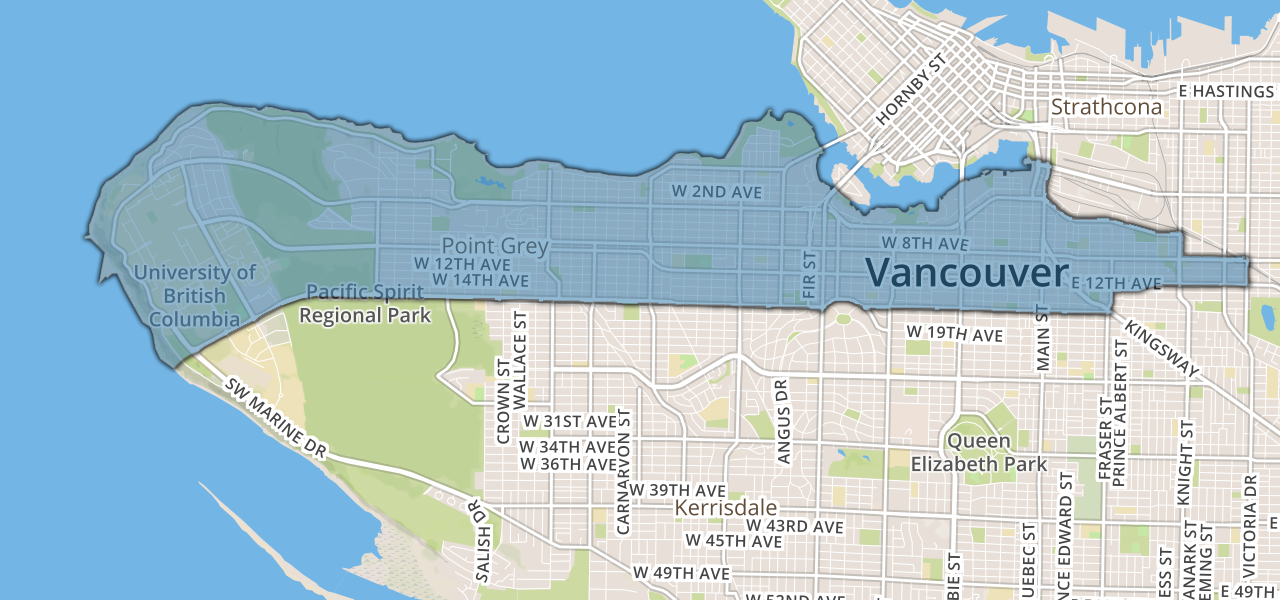
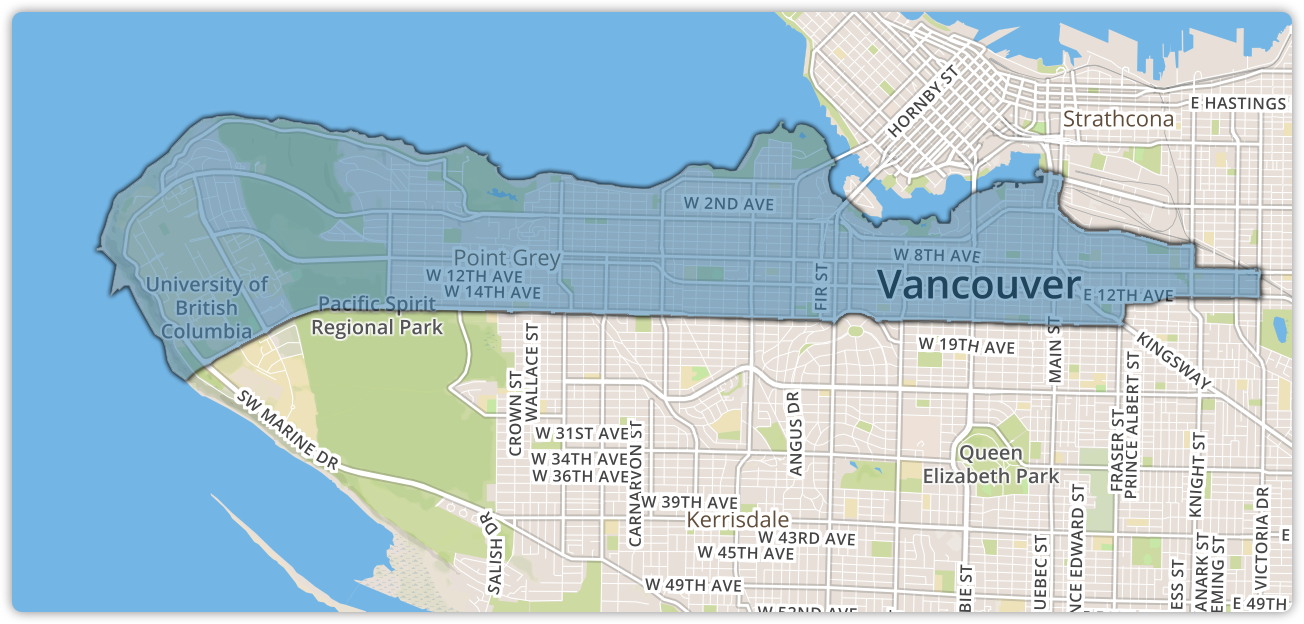
Finishing off main screen

diff --git a/index.html b/index.html
@@ -36,7 +36,7 @@
 			</header>
 
 			<section id="banner">
-				<h2>Everyday Ridesharing</h2>
+				<h2>Share your Commute</h2>
 				<h3>A social, fast, and affordable way to get around!</h3>
 
 				<div class="container">
@@ -59,129 +59,59 @@
 					<div class="box alt">
 						<div class="row 50% uniform">
 							<div class="4u 12u$(small)">
-							<header><h2>Enter Destination</h2></header>
-								<span class="image fit"><img src="images/enter-destination.png" alt="" /></span>
+							<header><h2>1. Enter Destination</h2></header>
+								<span class="image fit low-padded"><img src="images/enter-destination.png" alt="" /></span>
 							</div>
 							<div class="4u 12u$(small)">
-								<header><h2>Get Matched</h2></header>
-								<span class="image fit"><img src="images/get-matched.png" alt="" /></span>
+								<header><h2>2. Get Matched</h2></header>
+								<span class="image fit low-padded"><img src="images/get-matched.png" alt="" /></span>
 							</div>
 							<div class="4u$ 12u$(small)">
-								<header><h2>Go</h2></header>
-								<span class="image fit"><img src="images/go.png" alt="" /></span>
+								<header><h2>3. Go</h2></header>
+								<span class="image fit low-padded"><img src="images/go.png" alt="" /></span>
 							</div>
 						</div>
 					</div>
 				</div>
 			</section>
 
-			<section class="wrapper">
+			<section class="wrapper style1 dark special">
 				<div class="container">
-
 					<header class="major">
-						<h2>Available exclusively in the UBC-Broadway Corridor!</h2>
+						<h2>This is your Spare Zone!</h2>
 						<p>As long as you are going through the highlighted area below (UBC - Broadway Corridor) the service will be there when you need it!</p>
 					</header>
-					<span class="image fit"><img src="images/map-highlighted.png" alt="" /></span>
+					<span class="image fit"><img class="map" src="images/map-highlighted.png" alt="" /></span>
 
 				</div>
 			</section>
 
-			<section id="none" class="wrapper style2 dark special">
+			<section id="none" class="wrapper style2 special">
 				<div class="container">
 					<header class="major">
-						<h2>Meet people already using the service!</h2>
+						<h2>You may have heard about us...</h2>
 					</header>
-					<section class="profiles">
-						<div class="row">
-							<section class="4u 6u(medium) 12u$(xsmall) profile">
-								<img src="images/josh-pic.jpg" class="profile-pic" alt="" />
-								<h4>Josh Andrews</h4>
-								<p>UBC Computer Science graduate.  I'm passionate about transportation and the outdoors.</p>
-							</section>
-							<section class="4u 6u$(medium) 12u$(xsmall) profile">
-								<img src="images/kristoffer-pic.jpg" class="profile-pic" alt="" />
-								<h4>Kristoffer Vik Hansen</h4>
-								<p>UBC grad. I love the outdoors. Big skiing fan!</p>
-							</section>
-							<section class="4u 6u(medium) 12u$(xsmall) profile">
-								<img src="images/alexey-pic.jpg" class="profile-pic" alt="" />
-								<h4>Alexey Indeev</h4>
-								<p>Student trying to get places but always finding it hard.</p>
-							</section>
-						</div>
-					</section>
-				</div>
-			</section>
-		<!-- One -->
-		<section id="two" class="wrapper style1 special">
-				<div class="container">
-					<header class="major">
-						<h2>Looking For a Ride?</h2>
-						<p>Get there in three easy steps!</p>
-					</header>
-					<div class="row 150%">
-						<div class="4u 12u$(medium)">
-							<section class="box">
-								<i class="icon big rounded color1 fa-mobile"></i>
-								<h3>Text Us</h3>
-								<p>Text us at (604) 449-8560. Just specify where you are and where you will be going.</p>
-							</section>
-						</div>
-						<div class="4u 12u$(medium)">
-							<section class="box">
-								<i class="icon big rounded color9 fa-globe"></i>
-								<h3>Get Driver Location</h3>
-								<p>Within seconds our service will reply with a Driver and when he or she will arrive.  Just stay put!</p>
-							</section>
-						</div>
-						<div class="4u$ 12u$(medium)">
-							<section class="box">
-								<i class="icon big rounded color6 fa-car"></i>
-								<h3>Pick Up/Drop off</h3>
-								<p>Once our driver arrives, he or she will take you directly to your destination.  Payments will happen immediately after the ride.</p>
-							</section>
-						</div>
-					</div>
-				</div>
-			</section>
 
-			<section id="one" class="wrapper dark special">
-				<div class="container">
-					<header class="major">
-						<h2>Driving?</h2>
-						<p>Get paid in three easy steps!</p>
-					</header>
-					<div class="row 150%">
-						<div class="4u 12u$(medium)">
-							<section class="box">
-								<i class="icon big rounded color1 fa-mobile"></i>
-								<h3>Text Us</h3>
-								<p>Text us at (604) 449-8551. Just specify where you are and where you will be going.</p>
-							</section>
-						</div>
-						<div class="4u 12u$(medium)">
-							<section class="box">
-								<i class="icon big rounded color9 fa-globe"></i>
-								<h3>Get Passenger Location</h3>
-								<p>Within seconds our service will reply with a passenger and his or her start and end location.</p>
-							</section>
-						</div>
-						<div class="4u$ 12u$(medium)">
-							<section class="box">
-								<i class="icon big rounded color6 fa-child"></i>
-								<h3>Pick Up/Drop off</h3>
-								<p>All you have to do now, is pick up the passenger and drop them off.  Payments will happen immediately.</p>
-							</section>
+					<div class="box alt">
+						<div class="row 50% uniform">
+							<div class="4u 12u$(small)">
+								<span class="image fit medium-padded"><img src="images/ctv-logo.png" alt="" /></span>
+							</div>
+							<div class="4u 12u$(small)">
+								<span class="image fit medium-padded"><img src="images/vancouver-is-awesome-logo.png" alt="" /></span>
+							</div>
+							<div class="4u$ 12u$(small)">
+								<span class="image fit medium-padded"><img src="images/ubyssey-logo.png" alt="" /></span>
+							</div>
 						</div>
 					</div>
 				</div>
 				<footer>
-					<p>We would love to have you sign up and test our service.  We're working on a way to bring this to more people which we will be sharing more about in the near future. &nbsp;<i class="fa fa-smile-o"></i>&nbsp;  Happy Sparing!</p>
+					<p>We look forward to seeing you out there! &nbsp;<i class="fa fa-smile-o"></i>&nbsp;  Happy Sparing!</p>
 					<ul class="actions">
 						<li></li>
 						<li>
-							<a href="#" class="button big">Sign up now!</a>
+							<a href="http://sparerides.com/app" class="button big"><img src="images/app-store.svg"/></a>
 						</li>
 					</ul>
 				</footer>
@@ -204,7 +134,7 @@
 									<a href="http://facebook.com/getspareapp" class="icon rounded fa-facebook"><span class="label">Facebook</span></a>
 								</li>
 								<li>
-									<a href="http://twitter.com/spare_app" class="icon rounded fa-twitter"><span class="label">Twitter</span></a>
+									<a href="http://twitter.com/sparerides" class="icon rounded fa-twitter"><span class="label">Twitter</span></a>
 								</li>
 								<li>
 									<a href="http://linkedin.com/company/spare" class="icon rounded fa-linkedin"><span class="label">LinkedIn</span></a>

diff --git a/css/style.css b/css/style.css
@@ -1278,6 +1278,20 @@
 			cursor: pointer;
 		}
 
+	.map {
+		padding: 0 4em 0 4em;
+	}
+
+	.low-padded
+	{
+		padding: 1em;
+	}
+	
+	.medium-padded
+	{
+		padding: 3em;
+	}
+
 /* Grid Demo */
 
 	.grid-demo {

diff --git a/css/style-medium.css b/css/style-medium.css
@@ -38,6 +38,10 @@
 			font-size: 1.25em;
 		}
 
+.map {
+		padding: 0 1em 0 1em;
+	}
+
 /* Layers */
 
 .ride-header {
